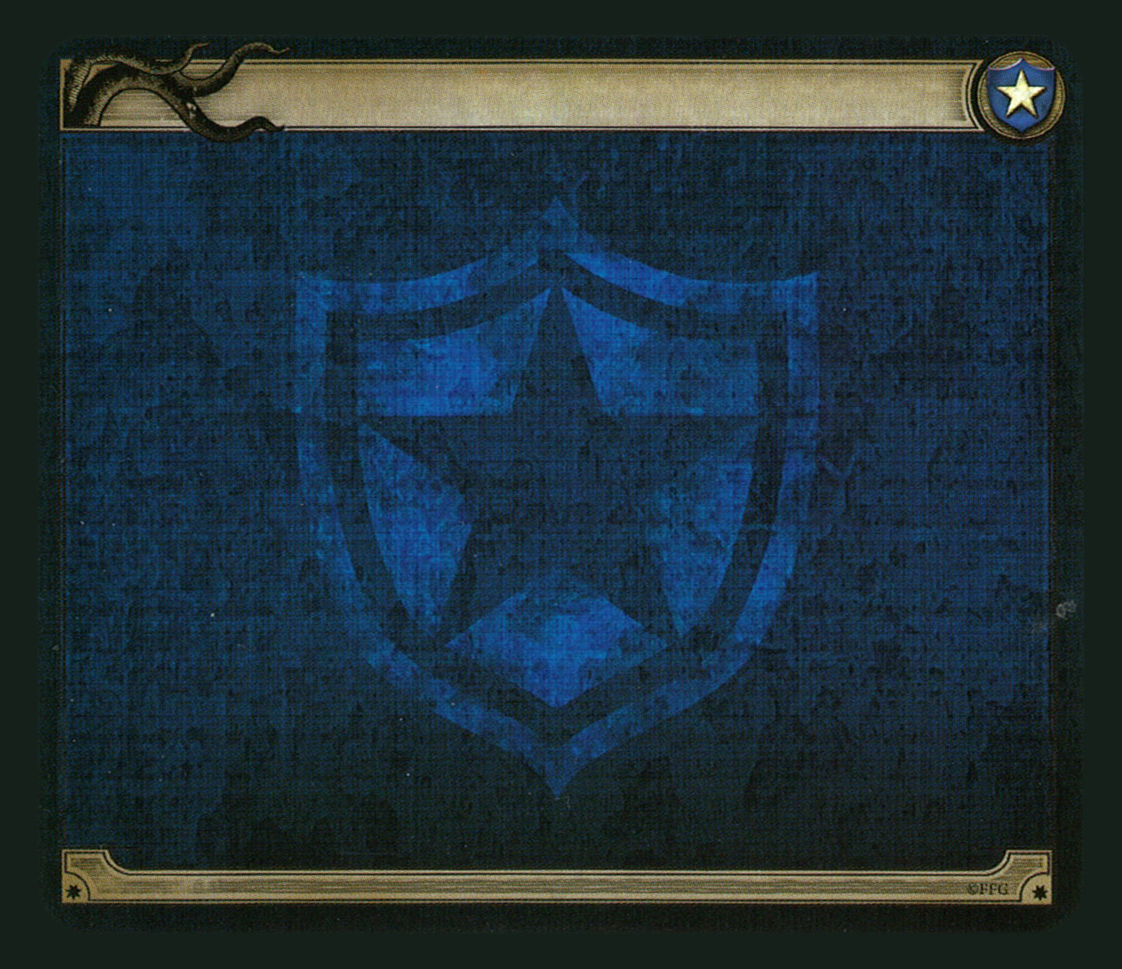
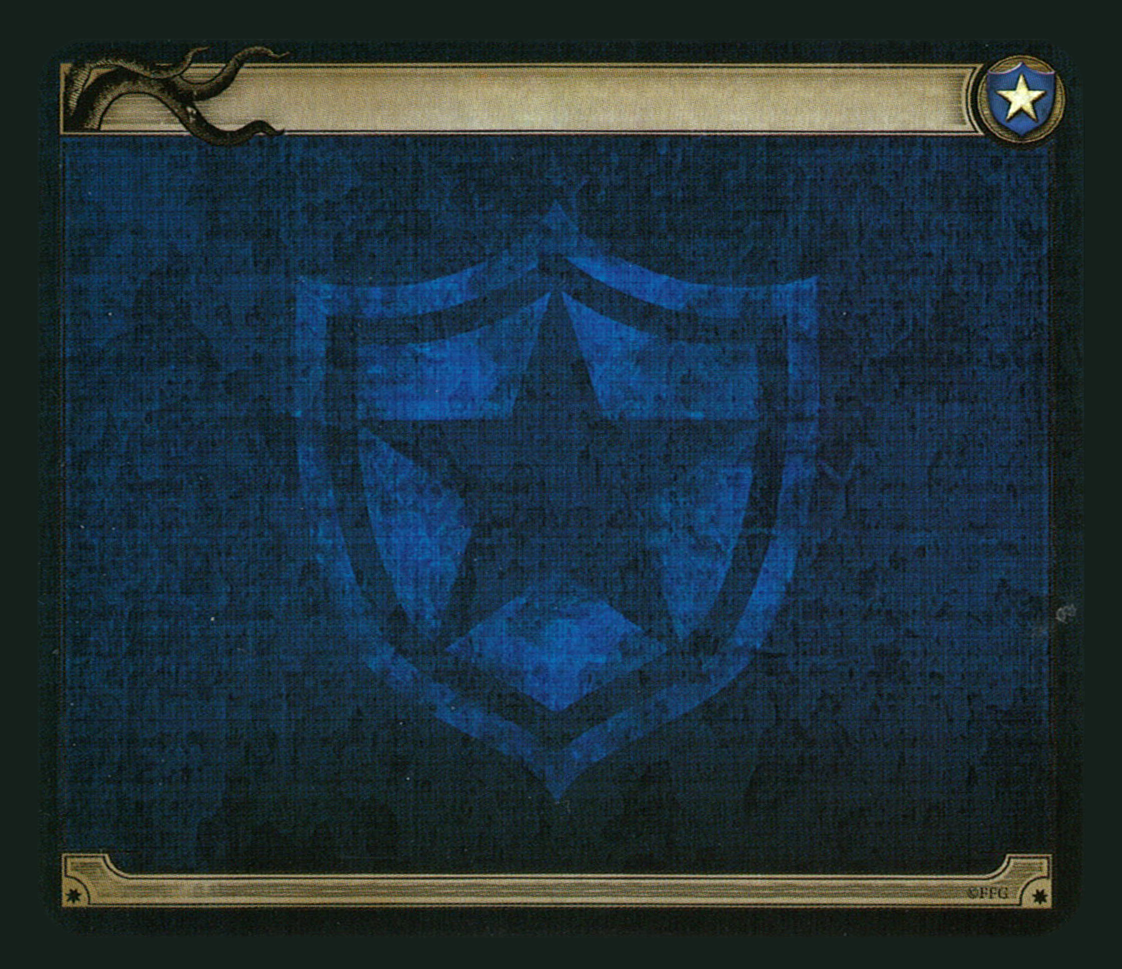
invocation xp status

Changed region(s): [[0.0312, 0.031, 0.967, 0.8359], [0.0624, 0.8669, 0.9358, 0.9598]]

diff --git a/src/store/features/app/app.ts b/src/store/features/app/app.ts
@@ -4,7 +4,7 @@ import { createSliceSelector, createSliceSetter } from '@/util/slice';
 import { ActionCreator, createSlice } from '@reduxjs/toolkit';
 import { setStories } from '../stories/stories';
 import { setIcons } from '../icons/icons';
-import { addTranslatedStories, setAvailableLanguages, setLoadedTranslations } from '../language/language';
+import { addTranslatedStories, selectLoadedTranslations, setAvailableLanguages, setLoadedTranslations } from '../language/language';
 import { setEncounterSets } from '../encounterSets/encounterSets';
 import { DEFAULT_LANGUAGE } from '@/constants/i18n';
 import { setCoreTranslations } from '../i18n/i18n';
@@ -47,7 +47,8 @@ export const loadAppData: ActionCreator<AppThunk> = () => async dispatch => {
   dispatch(setLoading(false));
 }
 
-export const loadAppTranslations: ActionCreator<AppThunk> = (language: string) => async dispatch => {
+export const loadAppTranslations: ActionCreator<AppThunk> = (language: string) => async (dispatch, getState) => {
+  const loadedTranslations = selectLoadedTranslations(getState());
   const {
     translatedStories,
     campaigns,
@@ -75,6 +76,10 @@ export const loadAppTranslations: ActionCreator<AppThunk> = (language: string) =
   
   dispatch(setCoreTranslations(language, mapping));
   dispatch(addTranslatedStories(language, translatedStories));
+  dispatch(setLoadedTranslations([
+    ...loadedTranslations,
+    language
+  ]))
 }
 
 export const {

diff --git a/src/components/dividers/invocation2018/Invocation2018Divider/Invocation2018Divider.tsx b/src/components/dividers/invocation2018/Invocation2018Divider/Invocation2018Divider.tsx
@@ -4,20 +4,44 @@ import { PropsWithClassName } from '@/types/util';
 import { backgrounds } from './backgrounds';
 import { omit, propEq } from 'ramda';
 import { ClassicDivider } from '@/components';
+import { propsEquals } from '@/util/criteria';
+import { Invocation2018DividerCost } from '../Invocation2018DividerCost/Invocation2018DividerCost';
 
 export type Invocation2018DividerProps = PropsWithClassName & IDivider;
 
 export const Invocation2018Divider = (props: Invocation2018DividerProps) => {
-	const { faction } = props;
+	const { 
+		faction,
+		xpCost
+	} = props;
 
-  const background = backgrounds.find(propEq(faction, 'faction'));
+	const xp = Boolean(
+		xpCost?.level && xpCost.level > 0
+	);
 
-	const dividerProps = omit(['previewIcon', 'icon'], props);
+  const background = backgrounds.find(propsEquals({
+		faction,
+		xp
+	}));
+	
+	const dividerProps = background ? omit([
+		'previewIcon', 
+		'icon', 
+		'xpCost'
+	], props) : props;
+
   return (
     <ClassicDivider 
 			{...dividerProps}
 			titleStroke={false}
 			background={background?.src}
-		/>
+		>
+			{xpCost?.level && (
+				<Invocation2018DividerCost 
+					className={S.xpCost}
+					level={xpCost.level}
+				/>
+			)}
+		</ClassicDivider>
   );
 }

diff --git a/src/components/dividers/invocation2018/Invocation2018Divider/backgrounds.ts b/src/components/dividers/invocation2018/Invocation2018Divider/backgrounds.ts
@@ -5,6 +5,15 @@ import rogue from './images/rogue.png';
 import survivor from './images/survivor.png';
 import seeker from './images/seeker.png';
 
+import mysticXP from './images/mystic_xp.png';
+import neutralXP from './images/neutral_xp.png';
+import guardianXP from './images/guardian_xp.png';
+import rogueXP from './images/rogue_xp.png';
+import survivorXP from './images/survivor_xp.png';
+import seekerXP from './images/seeker_xp.png';
+
+
+
 export const baseBackgrounds = [
   {
     faction: 'mystic',
@@ -38,6 +47,42 @@ export const baseBackgrounds = [
   }
 ]
 
-export const backgrounds = baseBackgrounds;
+export const xpBackgrounds = [
+  {
+    faction: 'mystic',
+    src: mysticXP,
+    xp: true
+  },
+  {
+    faction: 'neutral',
+    src: neutralXP,
+    xp: true
+  },
+  {
+    faction: 'guardian',
+    src: guardianXP,
+    xp: true
+  },
+  {
+    faction: 'rogue',
+    src: rogueXP,
+    xp: true
+  },
+  {
+    faction: 'survivor',
+    src: survivorXP,
+    xp: true
+  },
+  {
+    faction: 'seeker',
+    src: seekerXP,
+    xp: true
+  }
+]
+
+export const backgrounds = [
+  ...baseBackgrounds,
+  ...xpBackgrounds
+];
 
 // export const experienceBackgrounds = 

diff --git a/src/components/dividers/classic/ClassicDivider/ClassicDivider.tsx b/src/components/dividers/classic/ClassicDivider/ClassicDivider.tsx
@@ -1,4 +1,4 @@
-import { useEffect, useState } from 'react';
+import { PropsWithChildren, useEffect, useState } from 'react';
 
 import S from './ClassicDivider.module.scss';
 import { backgrounds } from './backgrounds';
@@ -17,8 +17,8 @@ import { ClassicDividerStatus } from '../ClassicDividerStatus/ClassicDividerStat
 import { ClassicDividerXPCost } from '../ClassicDividerXPCost/ClassicDividerXPCost';
 import { propsEquals } from '@/util/criteria';
 
-export type ClassicDividerProps = PropsWithClassName & IDivider & {
-	titleStroke: boolean
+export type ClassicDividerProps = PropsWithClassName & IDivider & PropsWithChildren &{
+	titleStroke?: boolean
 }
 
 export const ClassicDivider = ({
@@ -32,6 +32,7 @@ export const ClassicDivider = ({
 	size,
 	className,
 	campaignIcon,
+	children,
 	...props
 }: ClassicDividerProps) => {
 	const { t } = useTranslation();
@@ -123,6 +124,9 @@ export const ClassicDivider = ({
 							/>
 						</div>
 					)}
+					
+					{children}
+
 					<DividerMenu id={id} className={S.menu}/>
 
 					<ClassicDividerStatus

diff --git a/src/components/dividers/Divider/Divider.tsx b/src/components/dividers/Divider/Divider.tsx
@@ -3,23 +3,17 @@ import S from './Divider.module.scss';
 import { IDivider } from '@/types/dividers';
 import { ClassicDivider } from '../classic/ClassicDivider/ClassicDivider';
 import { Invocation2018Divider } from '../invocation2018/Invocation2018Divider/Invocation2018Divider';
-import { FC } from 'react';
 import { useAppSelector } from '@/hooks/useAppSelector';
 import { selectLayout } from '@/store/features/layout/layout';
 
 export type DividerProps = PropsWithClassName & IDivider;
 
-export const Components: Mapping<FC<DividerProps>> = {
-  'classic': ClassicDivider,
-  'invocation2018': Invocation2018Divider
-}
-
 export const Divider = (props: DividerProps) => {
   const { id } = useAppSelector(selectLayout);
-  const Component = Components[id] || ClassicDivider;
   return (
     <>
-      {Component && <Component {...props}/>}
+      {id === 'classic' && <ClassicDivider {...props}/>}
+      {id === 'invocation2018' && <Invocation2018Divider {...props}/>}
     </>
   );
 }

diff --git a/src/components/dividers/invocation2018/Invocation2018DividerCost/Invocation2018DividerCost.tsx b/src/components/dividers/invocation2018/Invocation2018DividerCost/Invocation2018DividerCost.tsx
@@ -1,0 +1,35 @@
+import { range } from 'ramda';
+import S from './Invocation2018DividerCost.module.scss';
+import classNames from 'classnames';
+import { Icon } from '@/components';
+import { PropsWithClassName } from '@/types/util';
+
+export type Invocation2018DividerCostProps = PropsWithClassName &{
+  level: number
+}
+
+export const Invocation2018DividerCost = ({
+  className,
+  level
+}: Invocation2018DividerCostProps) => {
+  const levels = range(1, 6);
+  console.log({
+    levels
+  })
+
+  return (
+    <div className={classNames(S.container, className)}>
+      <div className={S.levels}>
+        {levels.map(l => (
+          <div className={classNames(
+              S.level, 
+              S[`level_${l}`],
+              l > level && S[`level_style-${l - level}`],
+              l <= level && S.level_current
+            )}
+          />
+        ))}
+      </div>
+    </div>
+  );
+}

diff --git a/src/components/dividers/invocation2018/Invocation2018DividerCost/Invocation2018DividerCost.module.scss b/src/components/dividers/invocation2018/Invocation2018DividerCost/Invocation2018DividerCost.module.scss
@@ -1,0 +1,56 @@
+.container {
+  
+}
+
+.levels {
+  position: relative;
+}
+
+.level {
+  position: absolute;
+  width: 0.09em;
+  aspect-ratio: 1;
+  border-radius: 50%;
+  background-color: var(--color);
+  // box-shadow: 0 0 0.5em var(--color);
+}
+
+.level {
+  &_1 {
+    top: 4.6mm;
+    right: 9.35mm
+  }
+  &_2 {
+    top: 6.05mm;
+    right: 7.89mm
+  }
+  &_3 {
+    top: 6.55mm;
+    right: 6mm
+  }
+  &_4 {
+    top: 6.05mm;
+    right: 4.05mm
+  }
+  &_5 {
+    top: 4.6mm;
+    right: 2.6mm
+  }
+  &_style {
+    &-1 {
+      --color: rgba(255, 255, 255, 0.45);
+    }
+    &-2 {
+      --color: rgba(255, 255, 255, 0.4);
+    }
+    &-3 {
+      --color: rgba(255, 255, 255, 0.35);
+    }
+    &-4 {
+      --color: rgba(255, 255, 255, 0.3);
+    }
+  }
+  &_current {
+    --color: rgba(255, 255, 255, 1);
+  }
+}

diff --git a/src/store/features/language/language.ts b/src/store/features/language/language.ts
@@ -50,6 +50,7 @@ export const changeLanguage: ActionCreator<AppThunk> = (language: string) => asy
   if (loadedTranslations.includes(language)) {
     return;
   }
+  
   dispatch(loadAppTranslations(language));
 }
 

diff --git a/src/components/dividers/invocation2018/Invocation2018Divider/Invocation2018Divider.module.scss b/src/components/dividers/invocation2018/Invocation2018Divider/Invocation2018Divider.module.scss
@@ -1,0 +1,7 @@
+.xpCost {
+  position: absolute;
+  z-index: 1;
+  right: 2.3mm;
+  top: 6.2mm;
+  font-size: 6.1mm;
+}
